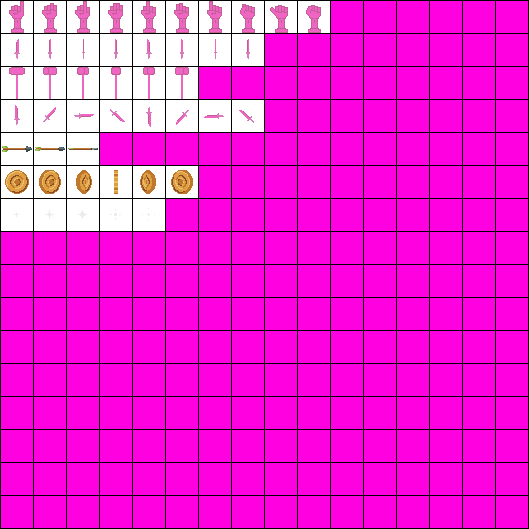
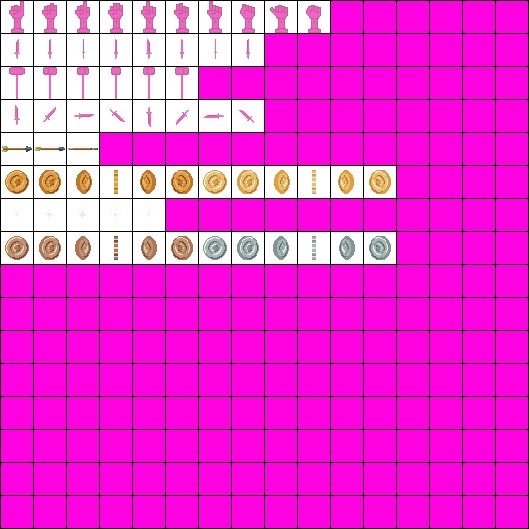
Added different coin types

Changed region(s): [[0.0, 0.4234, 0.7561, 0.5142], [0.3629, 0.3025, 0.7561, 0.3932]]

diff --git a/GameProject2023/src/framework/TextureLoader.java b/GameProject2023/src/framework/TextureLoader.java
@@ -54,7 +54,9 @@ public class TextureLoader {
 		WoodJumpThroughTiles,
 		
 		// Items
-		Coin,
+		BronzeCoin,
+		SilverCoin,
+		GoldCoin,
 		FisticuffsItem,
 		SwordItem,
 		HammerItem,
@@ -257,10 +259,20 @@ public class TextureLoader {
 			for (int i = 0; i < textures.length; i++)
 				textures[i] = blockSheet.getSubimage(1 + i * 17, 69, 16, 16);
 			break;
-		case Coin:
+		case BronzeCoin:
 			textures = new BufferedImage[6];
 			for (int i = 0; i < textures.length; i++)
-				textures[i] = itemSheet.getSubimage(1 + i * 33, 166, 32, 32);
+				textures[i] = itemSheet.getSubimage(1 + i * 33, 232, 32, 32);
+			break;
+		case SilverCoin:
+			textures = new BufferedImage[6];
+			for (int i = 0; i < textures.length; i++)
+				textures[i] = itemSheet.getSubimage(199 + i * 33, 232, 32, 32);
+			break;
+		case GoldCoin:
+			textures = new BufferedImage[6];
+			for (int i = 0; i < textures.length; i++)
+				textures[i] = itemSheet.getSubimage(199 + i * 33, 166, 32, 32);
 			break;
 		case FisticuffsItem:
 			textures = new BufferedImage[10];

diff --git a/GameProject2023/src/items/Coin.java b/GameProject2023/src/items/Coin.java
@@ -18,9 +18,24 @@ public class Coin extends Item {
 		velY = (float) (Math.random() * -1 * 5);
 		
 		TextureLoader textureLoader = TextureLoader.getInstance();
-		texture = textureLoader.getTextures(TextureName.Coin)[0];
+		texture = textureLoader.getTextures(TextureName.GoldCoin)[0];
+		
+		/*
+		 * Bronze is worth the least 45% chance to appear
+		 * Gold is worth the most, 20% chance to appear
+		 * Silver has 35% chance to appear
+		 */
+		int randomCoin = (int) (Math.random() * 100);
+		TextureName textureName;
+		if (randomCoin < 45)
+			textureName = TextureName.BronzeCoin;
+		else if (randomCoin >= 45 && randomCoin < 80)
+			textureName = TextureName.SilverCoin;
+		else
+			textureName = TextureName.GoldCoin;
+		
 		int spinDelay = 7;
-		animation = new Animation(textureLoader.getTextures(TextureName.Coin), spinDelay, false);
+		animation = new Animation(textureLoader.getTextures(textureName), spinDelay, false);
 	}
 
 	@Override

diff --git a/GameProject2023/src/abstract_objects/Creature.java b/GameProject2023/src/abstract_objects/Creature.java
@@ -55,8 +55,8 @@ public abstract class Creature extends GameObject {
 
 	public void die() {
 		objectHandler.removeObject(this);
-		int coinDrop = (int) (Math.random() * 6) + 1;
-		for (int i = 0; i < coinDrop; i++)
+		int coinsToDrop = (int) (Math.random() * 6) + 1;
+		for (int i = 0; i < coinsToDrop; i++)
 			objectHandler.addObject(objectHandler.createObjectByName(Name.Coin, (int) x, (int) y), ObjectHandler.MIDDLE_LAYER);
 	}
 
